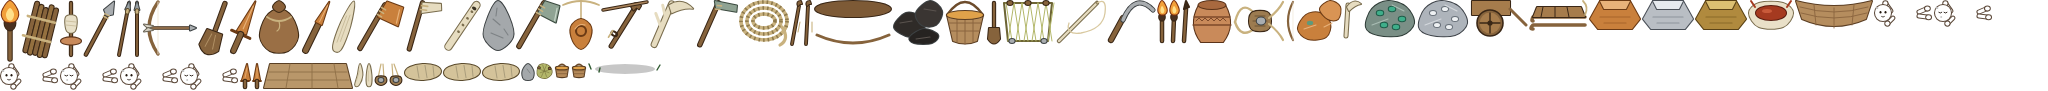
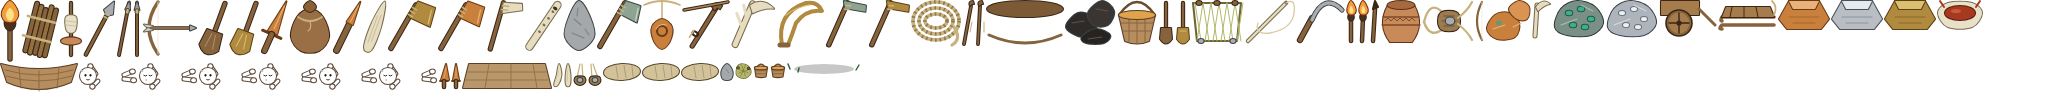
m15: fase 37h — bronze_tools, la pala cava a cinco veces el palo
Nodo bronze_tools (alloying) y hacha, azuela, hoz y pala de bronce en el horno.
Sin lectores nuevos: AXE_TOOLS, buildFactor, reapFactor y DIG_TOOLS (potencia 5).
Doble puerta, maxRefinement 1 y prueba del suelo del multiplicador. Arte: iconos y
la mano de la pala. Pruebas: metal.test.ts 62.

diff --git a/src/sim/__tests__/metal.test.ts b/src/sim/__tests__/metal.test.ts
@@ -14,13 +14,14 @@ import { Simulation } from '../core/Simulation.ts';
 import { fittedActionToolFor } from '../../render/EquipmentAnimation.ts';
 import { RNG } from '../core/RNG.ts';
 import { Person, DAYS_PER_YEAR } from '../entities/Person.ts';
-import { TECH, TECHS, TECH_EFFECTS, ageIndex, warmthFrom, techPower, awlFactor, forageYieldFactor, SEWN_RECIPES, WEBS, techsOfWeb, webOf, AXE_TOOLS, axeFactor, axeItemOf, weaponOf } from '../knowledge/Tech.ts';
+import { TECH, TECHS, TECH_EFFECTS, ageIndex, warmthFrom, techPower, awlFactor, forageYieldFactor, SEWN_RECIPES, WEBS, techsOfWeb, webOf, AXE_TOOLS, axeFactor, axeItemOf, weaponOf, buildFactor, reapFactor } from '../knowledge/Tech.ts';
 import { availableActions } from '../ai/ActionCatalog.ts';
 import { ITEMS } from '../entities/Item.ts';
 import { RECIPES } from '../entities/Recipe.ts';
 import { BUILDINGS, isStation, type Building } from '../entities/Building.ts';
 import { ORE_COUNTS, RESOURCE_DEFS, ResourceNode } from '../entities/ResourceNode.ts';
 import { wantedOreKinds, canWork } from '../knowledge/Ore.ts';
+import { digTool } from '../core/Earth.ts';
 import { geographicResourceAvailable } from '../world/GeographicResources.ts';
 import { earthWorldGeography } from '../world/WorldGeography.ts';
 import { WORLD_FEATURE } from '../world/WorldFeatureSeeds.ts';
@@ -799,5 +800,99 @@ describe('alloying and bronze', () => {
     expect(person.inventory.count('bronze')).toBe(3);
     expect(person.inventory.count('tin')).toBe(0);
     expect(person.inventory.count('copper')).toBe(0);
+  });
+});
+
+describe('bronze tools', () => {
+  it('needs alloying, and is read by the functions that read the stone tools', () => {
+    const def = TECH.bronze_tools;
+    expect(def.requires).toEqual(['alloying']);
+    expect(def.web).toBe('metal');
+    expect(TECH_EFFECTS.bronze_tools.site).toContain('DIG_TOOLS');
+  });
+
+  it('pours four tools at the furnace out of bronze, none of them a weapon', () => {
+    for (const id of ['bronze_axe', 'bronze_adze', 'bronze_sickle', 'bronze_spade']) {
+      const recipe = RECIPES[id]!;
+      expect(recipe.tech).toBe('bronze_tools');
+      expect(recipe.station).toBe('furnace');
+      expect(Object.keys(recipe.ingredients)).toEqual(['bronze']);
+      expect(ITEMS[id]!.weapon, id).toBeUndefined();
+    }
+  });
+
+  it('fells faster than copper, builds faster than polished stone and reaps faster than flint', () => {
+    const smith = adult('smith');
+    teach(smith, 'bronze_tools', 'casting', 'ground_stone', 'sickle');
+    const base = { fell: axeFactor(smith), build: buildFactor(smith), reap: reapFactor(smith) };
+    smith.inventory.add('copper_axe', 1);
+    const copper = axeFactor(smith);
+    smith.inventory.add('bronze_axe', 1);
+    expect(axeFactor(smith)).toBeLessThan(copper);
+    expect(axeItemOf(smith)).toBe('bronze_axe');
+    smith.inventory.add('adze', 1);
+    const stoneBuild = buildFactor(smith);
+    smith.inventory.add('bronze_adze', 1);
+    expect(buildFactor(smith)).toBeGreaterThan(stoneBuild);
+    expect(stoneBuild).toBeGreaterThan(base.build);
+    smith.inventory.add('sickle', 1);
+    const flint = reapFactor(smith);
+    smith.inventory.add('bronze_sickle', 1);
+    expect(reapFactor(smith)).toBeLessThan(flint);
+    expect(base.fell).toBe(1);
+    expect(base.reap).toBe(1);
+  });
+
+  it('pays only the person who knows how and carries the tool', () => {
+    const stranger = adult('stranger');
+    for (const id of ['bronze_axe', 'bronze_adze', 'bronze_sickle']) stranger.inventory.add(id, 1);
+    expect(axeFactor(stranger)).toBe(1);
+    expect(buildFactor(stranger)).toBe(buildFactor(adult('bare')));
+    expect(reapFactor(stranger)).toBe(1);
+  });
+
+  it('digs at five times a stick and ahead of the wooden spade', () => {
+    const digger = adult('digger');
+    teach(digger, 'bronze_tools', 'carpentry');
+    digger.inventory.add('sticks', 1);
+    const stick = digTool(digger)!.power;
+    digger.inventory.add('spade', 1);
+    const wooden = digTool(digger)!;
+    expect(wooden.item).toBe('spade');
+    digger.inventory.add('bronze_spade', 1);
+    const bronze = digTool(digger)!;
+    expect(bronze.item).toBe('bronze_spade');
+    expect(bronze.power / stick).toBeGreaterThanOrEqual(5);
+    expect(bronze.power).toBeGreaterThan(wooden.power);
+    // Without the technique it is a heavy stick and no more.
+    const stranger = adult('stranger');
+    stranger.inventory.add('bronze_spade', 1);
+    expect(digTool(stranger)).toBeNull();
+  });
+
+  it('keeps the new axe and sickle positive at the refinement the technique allows', () => {
+    const smith = adult('refined');
+    teach(smith, 'bronze_tools');
+    smith.techLevel.set('bronze_tools', TECH.bronze_tools.maxRefinement);
+    smith.inventory.add('bronze_axe', 1);
+    smith.inventory.add('bronze_sickle', 1);
+    expect(axeFactor(smith)).toBeGreaterThan(0.05);
+    expect(reapFactor(smith)).toBeGreaterThan(0.05);
+  });
+
+  it('casts a bronze spade at the furnace end to end', () => {
+    const sim = worldKnowing(['firemaking', 'carpentry', 'charcoal', 'smelting', 'pottery', 'casting', 'ground_stone', 'hafting', 'mining', 'alloying', 'bronze_tools']);
+    const person = sim.livingPeople()[0]!;
+    settle(person);
+    person.inventory.add('bronze', 3);
+    const furnace = stationNear(sim, person, 'furnace');
+    expect(sim.order(person, 'craft', { recipeId: 'bronze_spade', buildingId: furnace.id })).toBe(true);
+    for (let i = 0; i < 2500 && person.inventory.count('bronze_spade') === 0; i++) {
+      person.needs.thirst = 0;
+      person.needs.hunger = 0;
+      sim.step();
+    }
+    expect(person.inventory.count('bronze_spade')).toBe(1);
+    expect(person.inventory.count('bronze')).toBe(0);
   });
 });

diff --git a/src/sim/knowledge/Tech.ts b/src/sim/knowledge/Tech.ts
@@ -173,6 +173,8 @@ export const TECHS = [
   'casting',
   // Tin into copper: the metal the age is named for, and the one that is far away.
   'alloying',
+  // What bronze is for: the tools that every trade in the band leans on.
+  'bronze_tools',
 ] as const;
 export type Tech = (typeof TECHS)[number];
 
@@ -2207,6 +2209,31 @@ export const TECH: Record<Tech, TechDef> = {
       'and holds an edge. The copper is in every hill; the tin is in a few ' +
       'places in a whole continent, and that is what the age is made of.',
   },
+  // M15 phase 37 (M8.3). The point of bronze for everybody but the soldier: the
+  // axe, the adze, the sickle and the spade, each better than the stone it
+  // replaces, and every one of them read by a function that already existed
+  // (`axeFactor`, `buildFactor`, `reapFactor`, `Earth.digTool`). The plan's
+  // "dig at five times" is the spade: `DIG_TOOLS` power 5 against the wooden
+  // spade's 3 (26b). `maxRefinement: 1` for the reason `casting` gives.
+  bronze_tools: {
+    id: 'bronze_tools', label: 'Bronze tools', domain: 'metal', web: 'metal',
+    age: 'bronze', firstKnown: 'about 3000 BC',
+    kind: 'device',
+    requires: ['alloying'], difficulty: 0.55, skill: 'smith',
+    prototype: { bronze: 2 }, maxRefinement: 1,
+    sparks: [
+      { needs: [{ kind: 'knows', tech: 'alloying' }, { kind: 'holding', item: 'bronze' }],
+        weight: 1.0, story: 'looked at a lump of bronze and saw four tools in it' },
+      { needs: [{ kind: 'knows', tech: 'alloying' }, { kind: 'doing', action: 'chop' }],
+        weight: 0.7, story: 'felled a tree with a stone axe that chipped and wished for an edge that would not' },
+      { needs: [{ kind: 'knows', tech: 'alloying' }, { kind: 'doing', action: 'reap' }],
+        weight: 0.5, story: 'brought in a harvest with a flint blade that blunted before the field was done' },
+    ],
+    description:
+      'An axe, an adze, a sickle and a spade of bronze: each does the work ' +
+      'of the stone one in less of the day. The spade digs five times as ' +
+      'fast as a stick.',
+  },
 };
 
 /** The web a technology lives in (`'main'` unless its entry says otherwise). */
@@ -2561,6 +2588,10 @@ export const TECH_EFFECTS: Record<Tech, TechEffect> = {
     summary: 'Tin from its ore, and bronze from tin and copper: the stuff of the best tools and arms, and the reason to go looking for tin.',
     site: 'RECIPES.smelt_tin and RECIPES.alloy_bronze at the furnace; Ore.wantedOreKinds, which sends the smith to the tin',
   },
+  bronze_tools: {
+    summary: 'A bronze axe that fells, an adze that builds, a sickle that reaps and a spade that digs, each better than its stone.',
+    site: 'Tech.axeFactor (AXE_TOOLS), buildFactor, reapFactor and Earth.digTool (DIG_TOOLS); RECIPES.bronze_*',
+  },
 };
 
 /**
@@ -2771,7 +2802,10 @@ export function buildFactor(person: Person): number {
   // grind one is not enough, and an adze in the hands of somebody who could
   // not have made it is the `handaxe` bug one node along.
   const adze = person.inventory.has('adze') ? scaled(person, 'ground_stone', 1.2) : 1;
-  return scaled(person, 'carpentry', 1.3) * adze;
+  // M15 phase 37: a bronze adze, on the same double gate. One adze swings at a
+  // time, so the better of the two counts and the two do not stack.
+  const bronze = person.inventory.has('bronze_adze') ? scaled(person, 'bronze_tools', 1.45) : 1;
+  return scaled(person, 'carpentry', 1.3) * Math.max(adze, bronze);
 }
 
 /**
@@ -2808,6 +2842,7 @@ export const AXE_TOOLS: readonly { item: string; tech: Tech; full: number }[] = 
   { item: 'handaxe', tech: 'hafting', full: 0.5 },
   { item: 'stone_axe', tech: 'ground_stone', full: 0.35 },
   { item: 'copper_axe', tech: 'casting', full: 0.3 },
+  { item: 'bronze_axe', tech: 'bronze_tools', full: 0.25 },
 ];
 
 /** The strongest axe present, optionally limited to what is actually in hand. */
@@ -2832,7 +2867,11 @@ function equippedItem(person: Person, itemId: string): boolean {
  * teaches nothing about stripping a field by hand.
  */
 export function reapFactor(person: Person): number {
-  return person.inventory.has('sickle') ? scaled(person, 'sickle', 0.6) : 1;
+  const flint = person.inventory.has('sickle') ? scaled(person, 'sickle', 0.6) : 1;
+  // M15 phase 37: the bronze sickle, the better of the two (a smaller number is
+  // less work). `full` 0.45 stays positive at `bronze_tools`' one refinement step.
+  const bronze = person.inventory.has('bronze_sickle') ? scaled(person, 'bronze_tools', 0.45) : 1;
+  return Math.min(flint, bronze);
 }
 
 /**

diff --git a/src/render/Sprites.ts b/src/render/Sprites.ts
@@ -59,7 +59,7 @@ const SIZE_CLASSES: readonly SizeClass[] = ['infant', 'child', 'adolescent', 'ad
 export type HairVariant = 'dark' | 'grey' | 'balding' | 'bald';
 const HAIR_VARIANTS: readonly HairVariant[] = ['dark', 'grey', 'balding', 'bald'];
 
-export type HeldItemKind = 'spear' | 'bow' | 'atlatl' | 'sling' | 'bone_point' | 'copper_dagger' | 'handaxe' | 'net' | 'basket' | 'antler_pick' | 'spade' | 'digging_stick';
+export type HeldItemKind = 'spear' | 'bow' | 'atlatl' | 'sling' | 'bone_point' | 'copper_dagger' | 'handaxe' | 'net' | 'basket' | 'antler_pick' | 'spade' | 'bronze_spade' | 'digging_stick';
 /**
  * What shows in the hand when more than one thing is carried, most
  * conspicuous first. A hunter carrying both a bow and a basket reads as
@@ -168,7 +168,7 @@ export function heldItemFor(person: Person, autoEquipTools = false): HeldItemKin
   if (person.action === 'dig') {
     const tool = digTool(person);
     if (tool?.item === 'sticks') return 'digging_stick';
-    if (tool?.item === 'spade' || tool?.item === 'antler_pick') return tool.item;
+    if (tool?.item === 'spade' || tool?.item === 'antler_pick' || tool?.item === 'bronze_spade') return tool.item;
   }
   const fitted = fittedActionToolFor(person, autoEquipTools);
   if (fitted !== undefined) return fitted;
@@ -345,8 +345,9 @@ function paintHeld(ctx: CanvasRenderingContext2D, kind: HeldItemKind): void {
 
   switch (kind) {
     case 'antler_pick':
+    case 'bronze_spade':
     case 'spade':
-      ctx.strokeStyle = kind === 'antler_pick' ? '#e6dcc0' : '#86633c';
+      ctx.strokeStyle = kind === 'antler_pick' ? '#e6dcc0' : kind === 'bronze_spade' ? '#b08a3e' : '#86633c';
       ctx.lineWidth = 3;
       ctx.beginPath();
       ctx.moveTo(cx, cy - 20);
@@ -354,7 +355,7 @@ function paintHeld(ctx: CanvasRenderingContext2D, kind: HeldItemKind): void {
       ctx.stroke();
       ctx.fillStyle = ctx.strokeStyle;
       ctx.beginPath();
-      if (kind === 'spade') {
+      if (kind === 'spade' || kind === 'bronze_spade') {
         ctx.moveTo(cx - 5, cy + 7);
         ctx.lineTo(cx + 5, cy + 7);
         ctx.lineTo(cx + 6, cy + 16);

diff --git a/src/i18n/es/tech.ts b/src/i18n/es/tech.ts
@@ -453,4 +453,10 @@ export const ES_TECH: Record<string, string> = {
   "cast an axe that bent and wondered what made another band's hold its edge": "coló un hacha que se dobló y se preguntó qué hacía que la de otra banda conservara el filo",
   "noticed a heavy pale stone in the same seam as the green and put them in the fire together": "notó una piedra pálida y pesada en la misma veta que la verde y las echó juntas al fuego",
   "Tin from its ore, and bronze from tin and copper: the stuff of the best tools and arms, and the reason to go looking for tin.": "Estaño de su mineral, y bronce de estaño y cobre: la materia de las mejores herramientas y armas, y la razón para ir a buscar estaño.",
+  "Bronze tools": "Herramientas de bronce",
+  "An axe, an adze, a sickle and a spade of bronze: each does the work of the stone one in less of the day. The spade digs five times as fast as a stick.": "Un hacha, una azuela, una hoz y una pala de bronce: cada una hace el trabajo de la de piedra en menos del día. La pala cava cinco veces más rápido que un palo.",
+  "looked at a lump of bronze and saw four tools in it": "miró un lingote de bronce y vio cuatro herramientas en él",
+  "felled a tree with a stone axe that chipped and wished for an edge that would not": "taló un árbol con un hacha de piedra que se mellaba y deseó un filo que no se mellara",
+  "brought in a harvest with a flint blade that blunted before the field was done": "recogió una cosecha con una hoja de sílex que se embotó antes de acabar el campo",
+  "A bronze axe that fells, an adze that builds, a sickle that reaps and a spade that digs, each better than its stone.": "Un hacha de bronce que tala, una azuela que construye, una hoz que siega y una pala que cava, cada una mejor que la de piedra.",
 };

diff --git a/src/sim/entities/Recipe.ts b/src/sim/entities/Recipe.ts
@@ -636,6 +636,25 @@ export const RECIPES: Record<string, RecipeDef> = {
     workTicks: 110, ingredients: { copper: 3, tin: 1 }, output: { bronze: 3 },
     station: 'furnace', keep: 3,
   },
+  // `bronze_tools`, at the furnace. Bronze is the scarce input (one seam of tin
+  // on an island), so each tool is the cheapest it can be and `keep` is one:
+  // a band that has made its four has spent most of the bronze it will ever have.
+  bronze_axe: {
+    id: 'bronze_axe', label: 'Bronze axe', icon: '\u{1FA93}', tech: 'bronze_tools', skill: 'smith',
+    workTicks: 120, ingredients: { bronze: 2 }, output: { bronze_axe: 1 }, station: 'furnace', keep: 1,
+  },
+  bronze_adze: {
+    id: 'bronze_adze', label: 'Bronze adze', icon: '\u{1FA93}', tech: 'bronze_tools', skill: 'smith',
+    workTicks: 120, ingredients: { bronze: 2 }, output: { bronze_adze: 1 }, station: 'furnace', keep: 1,
+  },
+  bronze_sickle: {
+    id: 'bronze_sickle', label: 'Bronze sickle', icon: '\u{1F5E1}', tech: 'bronze_tools', skill: 'smith',
+    workTicks: 100, ingredients: { bronze: 1 }, output: { bronze_sickle: 1 }, station: 'furnace', keep: 1,
+  },
+  bronze_spade: {
+    id: 'bronze_spade', label: 'Bronze spade', icon: '\u{2660}', tech: 'bronze_tools', skill: 'smith',
+    workTicks: 130, ingredients: { bronze: 3 }, output: { bronze_spade: 1 }, station: 'furnace', keep: 1,
+  },
   // `bellows`: the same run in less time and three ingots, not two. A second
   // recipe rather than a term on the first, on the `kiln_pot` model, and the
   // trap that comment records applies here exactly: the craft scorer has no

diff --git a/art/src/props/items.ts b/art/src/props/items.ts
@@ -84,6 +84,23 @@ export const ITEMS: ItemArt[] = [
     shape(poly([[8, 42], [18, 24], [48, 24], [58, 42], [50, 52], [16, 52]]), '#b08a3e', '#5a4216')
     + shape(poly([[18, 24], [48, 24], [44, 32], [22, 32]]), '#dcc072', '#5a4216')
     + stroke('M18,40L48,40M22,46L44,46', '#8a6a28', 1.2)],
+  ['bronze_axe', 'Hacha de bronce', 'bronze_tools', () => rot(
+    limb([[32, 60], [32, 10]], 3.6, WOOD, WOOD_D)
+    + shape(poly([[32, 6], [50, 3], [55, 22], [32, 24]]), '#b08a3e', '#5a4216')
+    + stroke('M30,14L35,14M30,18L35,18M30,22L35,22', CORD, 1.6)
+    + stroke('M48,7L52,20', '#dcc072', 1.2), 30)],
+  ['bronze_adze', 'Azuela de bronce', 'bronze_tools', () => rot(
+    limb([[30, 60], [30, 14]], 3.4, WOOD, WOOD_D)
+    + shape(poly([[26, 14], [48, 9], [50, 15], [30, 20]]), '#b08a3e', '#5a4216')
+    + stroke('M30,17L34,15.6M30,21L34,19.6', CORD, 1.6), 24)],
+  ['bronze_sickle', 'Hoz de bronce', 'bronze_tools', () =>
+    stroke('M16,56Q10,24 40,14Q52,12 56,22Q40,20 30,34Q26,46 22,56', '#b08a3e', 4)
+    + stroke('M14,56L22,56', WOOD, 5)
+    + stroke('M20,26Q30,18 44,16', '#dcc072', 1.2)],
+  ['bronze_spade', 'Pala de bronce', 'bronze_tools', () => rot(
+    limb([[32, 6], [32, 39]], 3.4, WOOD, WOOD_D)
+    + shape('M24,36L40,36L42,53Q32,66 22,53Z', '#b08a3e', '#5a4216')
+    + stroke('M30,39L28,53M34,39L36,53', '#dcc072', 1), 20)],
   ['charcoal', 'Carbón vegetal', 'charcoal', () =>
     shape(smooth([[10, 44], [22, 30], [36, 34], [40, 48], [26, 54]]), '#2f2b28', STONE_D)
     + shape(smooth([[32, 30], [46, 18], [58, 28], [52, 42], [38, 42]]), '#3a3532', STONE_D)

diff --git a/art/src/props/held.ts b/art/src/props/held.ts
@@ -13,7 +13,7 @@ import { CORD, STONE, STONE_D, WOOD, WOOD_D } from './items.ts';
 export const HAND: readonly [number, number] = [48, 48];
 
 /** What the sim can put in a hand today, plus the torch phase 12 adds. */
-export const HELD_KINDS = ['spear', 'bow', 'atlatl', 'sling', 'bone_point', 'copper_dagger', 'handaxe', 'net', 'basket', 'torch', 'antler_pick', 'spade', 'digging_stick'] as const;
+export const HELD_KINDS = ['spear', 'bow', 'atlatl', 'sling', 'bone_point', 'copper_dagger', 'handaxe', 'net', 'basket', 'torch', 'antler_pick', 'spade', 'bronze_spade', 'digging_stick'] as const;
 export type HeldKind = (typeof HELD_KINDS)[number];
 
 /** `side` is true when seen from the east or west. */
@@ -29,6 +29,10 @@ export function heldSvg(kind: HeldKind, side: boolean): string {
     case 'spade':
       return limb([[x, y - 22], [x, y + 6]], 2.2, WOOD, WOOD_D)
         + shape(`M${x - 5},${y + 3}L${x + 5},${y + 3}L${x + 6},${y + 14}Q${x},${y + 23} ${x - 6},${y + 14}Z`, WOOD, WOOD_D);
+    case 'bronze_spade':
+      return limb([[x, y - 22], [x, y + 6]], 2.2, WOOD, WOOD_D)
+        + shape(`M${x - 5},${y + 3}L${x + 5},${y + 3}L${x + 6},${y + 14}Q${x},${y + 23} ${x - 6},${y + 14}Z`, '#b08a3e', '#5a4216')
+        + stroke(`M${x - 3},${y + 6}L${x + 3},${y + 6}`, '#dcc072', 0.9);
     case 'spear': {
       const top: [number, number] = side ? [x + 7, y - 38] : [x, y - 38];
       const bot: [number, number] = side ? [x - 3, y + 14] : [x, y + 14];

diff --git a/src/sim/entities/Item.ts b/src/sim/entities/Item.ts
@@ -377,6 +377,12 @@ export const ITEMS: Record<string, ItemDef> = {
   // thing a band can make before iron, because there is so little of it.
   tin: { id: 'tin', label: 'Tin', nutrition: 0, spoilTicks: 0, baseValue: 22, class: 'bulky', hand: { perHand: 1, perArms: 3, hands: 1 } },
   bronze: { id: 'bronze', label: 'Bronze', nutrition: 0, spoilTicks: 0, baseValue: 20, class: 'bulky', hand: { perHand: 1, perArms: 3, hands: 1 } },
+  // `bronze_tools`. Read through `AXE_TOOLS`, `buildFactor`, `reapFactor` and
+  // `DIG_TOOLS`; none is a weapon, on the `handaxe` argument.
+  bronze_axe: { id: 'bronze_axe', label: 'Bronze axe', nutrition: 0, spoilTicks: 0, baseValue: 28, class: 'small', hand: { perHand: 1, perArms: 1, hands: 1 } },
+  bronze_adze: { id: 'bronze_adze', label: 'Bronze adze', nutrition: 0, spoilTicks: 0, baseValue: 26, class: 'small', hand: { perHand: 1, perArms: 1, hands: 1 } },
+  bronze_sickle: { id: 'bronze_sickle', label: 'Bronze sickle', nutrition: 0, spoilTicks: 0, baseValue: 22, class: 'small', hand: { perHand: 1, perArms: 1, hands: 1 } },
+  bronze_spade: { id: 'bronze_spade', label: 'Bronze spade', nutrition: 0, spoilTicks: 0, baseValue: 30, class: 'long', hand: { perHand: 1, perArms: 1, hands: 1 } },
   charcoal: { id: 'charcoal', label: 'Charcoal', nutrition: 0, spoilTicks: 0, baseValue: 3, class: 'loose', hand: { perHand: 2, perArms: 6, hands: 1 } },
 };
 

diff --git a/src/sim/core/Earth.ts b/src/sim/core/Earth.ts
@@ -42,6 +42,8 @@ export const LIFT = 2;
  * effective power, not table order, so a refined pick can beat a plain spade.
  */
 export const DIG_TOOLS: readonly { item: string; power: number; tech?: Tech }[] = [
+  // M15 phase 37: "the bronze tools dig at five times" (26b), a stick's one.
+  { item: 'bronze_spade', power: 5, tech: 'bronze_tools' },
   { item: 'spade', power: 3, tech: 'carpentry' },
   { item: 'antler_pick', power: 2, tech: 'bone_working' },
   { item: 'sticks', power: 1 },

diff --git a/src/i18n/es/data.ts b/src/i18n/es/data.ts
@@ -288,4 +288,8 @@ export const ES_DATA: Record<string, string> = {
   "Bronze": "Bronce",
   "Smelt tin": "Fundir estaño",
   "Alloy bronze": "Alear bronce",
+  "Bronze axe": "Hacha de bronce",
+  "Bronze adze": "Azuela de bronce",
+  "Bronze sickle": "Hoz de bronce",
+  "Bronze spade": "Pala de bronce",
 };

diff --git a/src/render/EquipmentAnimation.ts b/src/render/EquipmentAnimation.ts
@@ -11,6 +11,7 @@ const HELD_ART: Readonly<Record<string, HeldItemKind>> = {
   stone_axe: 'handaxe',
   // The cast axe is the same head on a haft; the dagger has a held picture of its own.
   copper_axe: 'handaxe',
+  bronze_axe: 'handaxe',
   copper_dagger: 'copper_dagger',
   spear: 'spear',
   bow: 'bow',

diff --git a/docs/m15_phase37_metal.md b/docs/m15_phase37_metal.md
@@ -179,3 +179,13 @@ gris con vetas verdes, o claras para el estaño).
 **`bronze-needs-a-trader` queda sin medir.** La puerta del plan («casi ninguna banda sin estaño en su comarca funde bronce sin haber comerciado o asaltado») necesita el comercio y las caravanas de la fase 36, que no están en esta rama, y una cohorte con mapa. Se deja anotada en `docs/next-steps.md`; lo que sí se puede decir hoy es lo que prueba la cuenta de arriba: sin estaño en la región no hay bronce que fundir.
 
 **Pruebas.** `metal.test.ts` (+6): declaración y edad, chispa sin estaño en mano, las dos recetas y la proporción, `wantedOreKinds` (estaño sí, cobre ya no), el tope de bronce de la isla, y fundir estaño y alear bronce de punta a punta (tres de bronce).
+
+## 37h — `bronze_tools`: hacha, azuela, hoz y pala
+
+**Qué hay.** El nodo `bronze_tools` (dispositivo, red Metal, Edad del Bronce, «hacia el 3000 a. C.», requiere `alloying`), cuatro ítems y cuatro recetas en el horno (`bronze_axe` 2, `bronze_adze` 2, `bronze_sickle` 1, `bronze_spade` 3 de bronce, `keep: 1` cada una: el bronce es lo escaso y una banda que ha hecho sus cuatro ha gastado casi todo el que tendrá).
+
+**Quién lo lee.** Cuatro funciones que ya existían, ninguna con código nuevo de lector: `axeFactor`/`axeItemOf` (`AXE_TOOLS` gana `bronze_axe`, 0,25), `buildFactor` (la azuela de bronce, 1,45, contra la pulida de 1,2; se cuenta la mejor de las dos, no se apilan), `reapFactor` (la hoz de bronce, 0,45, contra la de sílex de 0,6; la menor) y `Earth.digTool` (`DIG_TOOLS` gana `bronze_spade`, potencia 5: «las herramientas de bronce cavan a 5×», frente a la pala de madera de 3 y el palo de 1). Todas con la doble puerta de siempre (saberlo y llevarlo), y `maxRefinement: 1` para que el multiplicador siga siendo positivo (una prueba lo comprueba para el hacha y la hoz).
+
+**Arte.** Cuatro iconos, la mano `held/bronze_spade` (el arte pide una por cada herramienta de cavar con técnica) y el caso de `Sprites`; el hacha de bronce se ve con la silueta del hacha.
+
+**Pruebas.** `metal.test.ts` (+7): declaración, recetas sin armas, la escalera hacha de cobre < bronce, azuela y hoz mejor que su piedra, la doble puerta, cavar a cinco veces el palo (y sin la técnica es solo un palo pesado), el suelo del multiplicador y fundir la pala de punta a punta.
